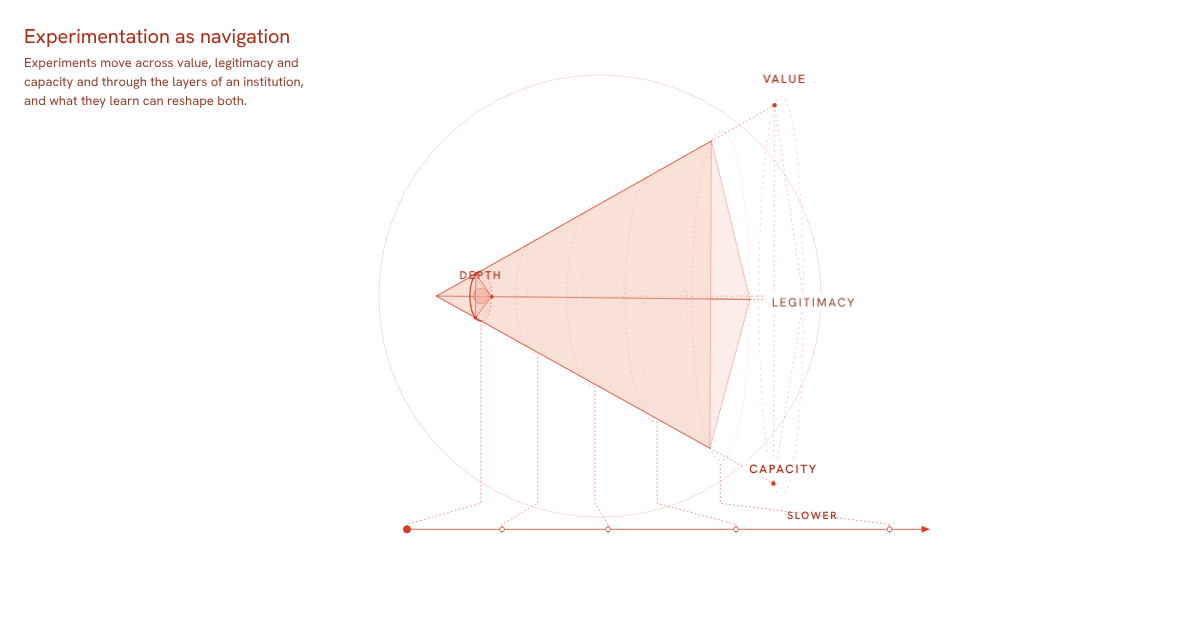
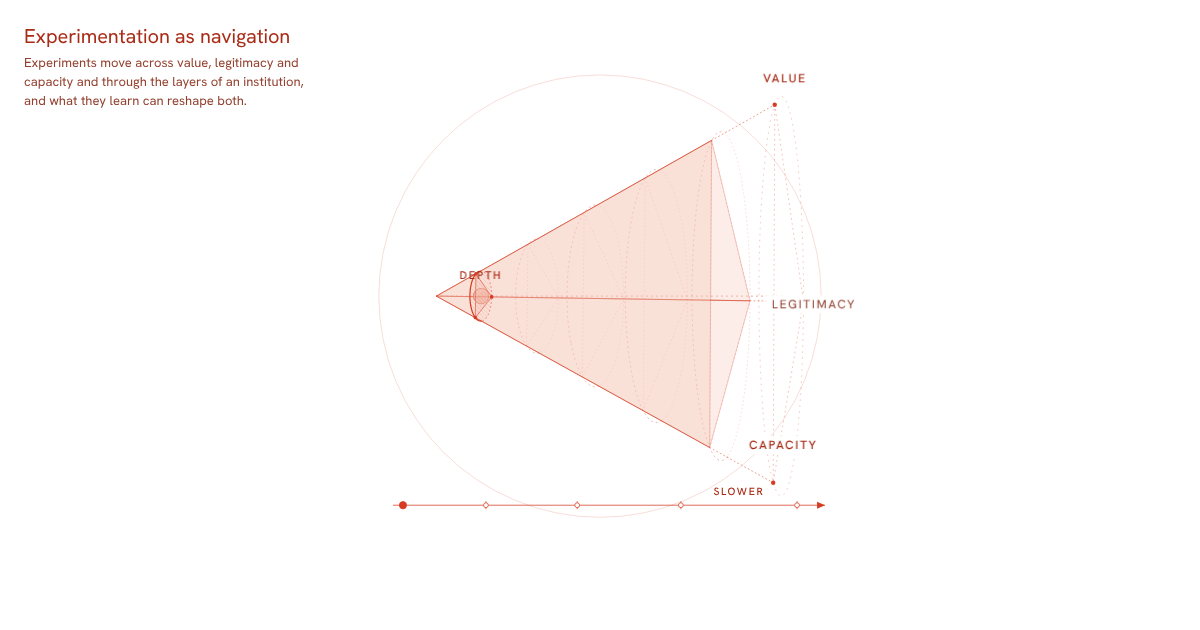
Make the pace scale a still ruler under the drawing
No more drop lines to the rings: the scale sits just below the drawing,
a little wider than the cone, and holds still while the model turns.
It still fades end on, and corner labels keep clear of it.

Claude-Session: https://claude.ai/code/session_01Ed2Ec9Yoie7vScgGFT9Sup

Changed region(s): [[0.3392, 0.6937, 0.7708, 0.8444], [0.4933, 0.4524, 0.7092, 0.5127], [0.6475, 0.1206, 0.6783, 0.1508]]

diff --git a/prototypes/navigation/index.html b/prototypes/navigation/index.html
@@ -148,7 +148,7 @@
 
   .layer-btn {
     position: absolute; left: 0; top: 0;
-    width: 128px;
+    width: 120px;
     padding: 4px 2px;
     border: 0; background: transparent;
     font: inherit; font-size: 12px; line-height: 1.3; font-weight: 400;
@@ -165,7 +165,6 @@
   /* The pace scale under the drawing */
   .scale-line { stroke: var(--ink); stroke-width: .75; fill: none; }
   .scale-head { fill: var(--ink); }
-  .scale-drop { fill: none; stroke: var(--ink); stroke-width: .5; stroke-dasharray: 1 3; stroke-linecap: round; stroke-linejoin: round; }
   .scale-tick { stroke: var(--ink); stroke-width: .75; }
   .scale-dot { fill: var(--paper); stroke: var(--ink); stroke-width: .75; }
   .scale-dot.reached { fill: var(--ink); }
@@ -648,7 +647,6 @@
   var scaleHead = el("path", { "class": "scale-head" }, gScale);
   var scaleWord = el("text", { "class": "scale-word", "text-anchor": "middle" }, gScale);
   scaleWord.textContent = "SLOWER";
-  var scaleDrops = LAYER_Y.map(function () { return el("polyline", { "class": "scale-drop" }, gScale); });
   var scaleTicks = LAYER_Y.map(function () { return el("line", { "class": "scale-tick" }, gScale); });
   var scaleDots = LAYER_Y.map(function () { return el("circle", { "class": "scale-dot", r: 2.4 }, gScale); });
 
@@ -711,31 +709,27 @@
       lows[i] = low;
     });
 
-    // The pace scale: a dotted drop from each ring to a tick on one line under the drawing,
-    // read from the citizen end towards the slow end. It fades out when the layers stack up end on.
-    // The gaps between ticks grow towards the slow end, so the spacing itself says slower.
-    var baseY = CY + SC * 2.9;
-    var x0 = lows[0].x, x4 = lows[4].x;
-    var vis = Math.max(0, Math.min(1, ((x4 - x0) / (SC * 2.4) - 0.3) / 0.35));
+    // The pace scale: a ruler just below the drawing, a little wider than the cone, read from the
+    // citizen end towards the slow end. It stays still while the model turns, and fades once the
+    // layers stack up end on. The gaps widen a little towards the slow end.
+    var baseY = CY + SC * 2.6;
+    var vis = Math.max(0, Math.min(1, ((lows[4].x - lows[0].x) / (SC * 2.4) - 0.3) / 0.35));
     gScale.style.opacity = vis;
-    var start = Math.max(Math.min(x0, CX - SC * 2.4), 72), end = Math.max(start + 120, Math.min(W - 96, CX + SC * 3.6));
-    var GAPS = [1.3, 1.45, 1.75, 2.1], total = 6.6, tx = [start];
+    var start = Math.max(64, CX - SC * 2.45), end = Math.min(W - 64, CX + SC * 2.45);
+    var GAPS = [1, 1.1, 1.25, 1.4], total = 4.75, tx = [start];
     GAPS.forEach(function (g) { tx.push(tx[tx.length - 1] + (end - start) * g / total); });
-    scaleLine.setAttribute("x1", start - 4); scaleLine.setAttribute("y1", baseY);
-    scaleLine.setAttribute("x2", end + 40); scaleLine.setAttribute("y2", baseY);
-    scaleHead.setAttribute("d", "M" + (end + 40) + " " + baseY + " l-8 -3.5 l0 7 Z");
+    scaleLine.setAttribute("x1", start - 10); scaleLine.setAttribute("y1", baseY);
+    scaleLine.setAttribute("x2", end + 28); scaleLine.setAttribute("y2", baseY);
+    scaleHead.setAttribute("d", "M" + (end + 28) + " " + baseY + " l-8 -3.5 l0 7 Z");
     scaleWord.setAttribute("x", (tx[3] + tx[4]) / 2); scaleWord.setAttribute("y", baseY - 10);
-    lows.forEach(function (low, i) {
-      // straight down from the ring, then across to its tick
-      var knee = Math.max(low.y + 10, baseY - 26);
-      scaleDrops[i].setAttribute("points", low.x + "," + (low.y + 4) + " " + low.x + "," + knee + " " + tx[i] + "," + (baseY - 5));
-      scaleTicks[i].setAttribute("x1", tx[i]); scaleTicks[i].setAttribute("y1", baseY - 4);
-      scaleTicks[i].setAttribute("x2", tx[i]); scaleTicks[i].setAttribute("y2", baseY + 4);
-      scaleDots[i].setAttribute("cx", tx[i]); scaleDots[i].setAttribute("cy", baseY);
+    tx.forEach(function (x, i) {
+      scaleTicks[i].setAttribute("x1", x); scaleTicks[i].setAttribute("y1", baseY - 4);
+      scaleTicks[i].setAttribute("x2", x); scaleTicks[i].setAttribute("y2", baseY + 4);
+      scaleDots[i].setAttribute("cx", x); scaleDots[i].setAttribute("cy", baseY);
       scaleDots[i].setAttribute("r", i === state.layer ? 3.6 : 2.4);
       scaleDots[i].setAttribute("class", "scale-dot" + (state.reached[i] ? " reached" : ""));
       var b = layerBtns[i];
-      place(b, tx[i] - b.offsetWidth / 2, baseY + 10);
+      place(b, x - b.offsetWidth / 2, baseY + 10);
       b.style.opacity = vis;
       b.style.pointerEvents = vis < 0.3 ? "none" : "";
       b.tabIndex = vis < 0.3 ? -1 : 0;
@@ -799,7 +793,7 @@
       var w = l.offsetWidth, half = w / 2 + 8;
       var lx = Math.max(half, Math.min(W - half, p.x));
       // never let a corner label sit on the pace scale
-      var ly = Math.min(p.y - l.firstChild.offsetHeight / 2, CY + SC * 2.9 - l.offsetHeight - 14);
+      var ly = Math.min(p.y - l.firstChild.offsetHeight / 2, CY + SC * 2.6 - l.offsetHeight - 26);
       // end on, the questions show too, so the label steps clear of its corner
       if (state.touched && r === "end") {
         var v = tops[CORNERS.indexOf(c)];

diff --git a/prototypes/README.md b/prototypes/README.md
@@ -6,7 +6,7 @@ Only this folder is published, by `.github/workflows/pages.yml`, on any push to 
 
 ## What is here
 
-**[navigation/](navigation/)** goes with *Tasting the organisational treacle*. A 3D sketch on one screen. The cone lies on its side, narrow citizen end on the left, and drifts on its own when left alone. Drag it any way, trackball style, and it turns all the way round in that direction; flick it and it tumbles, slows, then brings the nearest of six faces round (value, legitimacy, capacity and the edges between them). A note points at whatever is facing you. A dotted trail records where the experiment has settled, and each thing it turns up swells that layer and stretches that corner of the triangle, which keeps its straight edges, so the drawing ends up a different shape from the one it started as. A pace scale under the drawing reads from an afternoon to a parliament or more, with gaps that widen towards the slow end, and end on the three questions show under their corners. `og.png` is the share image. One self-contained HTML file, no libraries. Earlier versions are kept as snapshots, [v0.1.0](navigation/v0.1.0/), [v0.2.0](navigation/v0.2.0/), [v0.3.0](navigation/v0.3.0/), [v0.4.0](navigation/v0.4.0/) and [v0.5.0](navigation/v0.5.0/).
+**[navigation/](navigation/)** goes with *Tasting the organisational treacle*. A 3D sketch on one screen. The cone lies on its side, narrow citizen end on the left, and drifts on its own when left alone. Drag it any way, trackball style, and it turns all the way round in that direction; flick it and it tumbles, slows, then brings the nearest of six faces round (value, legitimacy, capacity and the edges between them). A note points at whatever is facing you. A dotted trail records where the experiment has settled, and each thing it turns up swells that layer and stretches that corner of the triangle, which keeps its straight edges, so the drawing ends up a different shape from the one it started as. A pace scale sits just below the drawing like a ruler, reading from an afternoon to a parliament or more; it holds still while the model turns and fades end on. End on, the three questions show under their corners. `og.png` is the share image. One self-contained HTML file, no libraries. Earlier versions are kept as snapshots, [v0.1.0](navigation/v0.1.0/), [v0.2.0](navigation/v0.2.0/), [v0.3.0](navigation/v0.3.0/), [v0.4.0](navigation/v0.4.0/) and [v0.5.0](navigation/v0.5.0/).
 
 ## Rules
 
